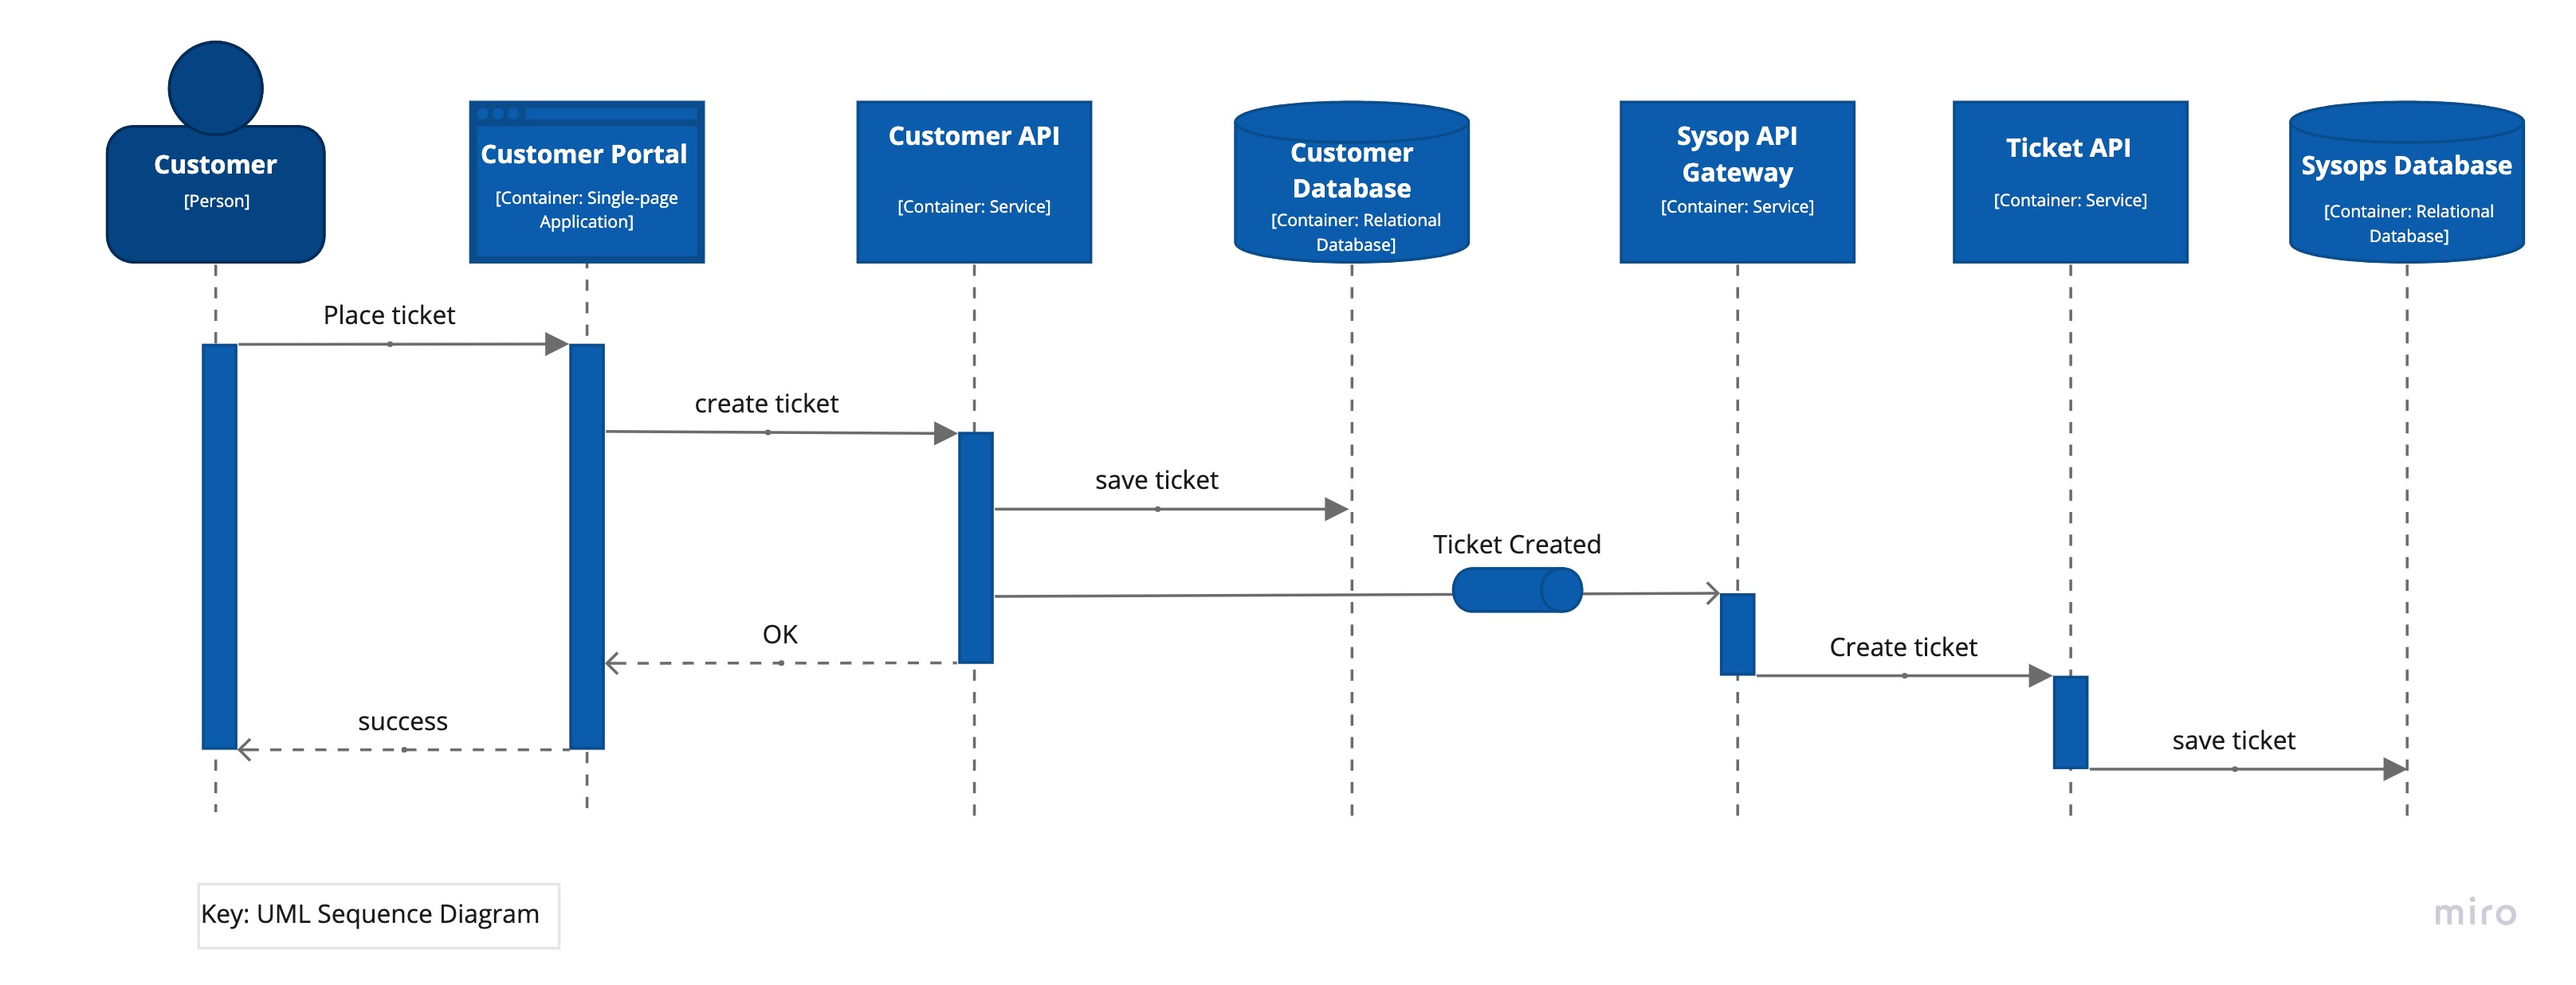
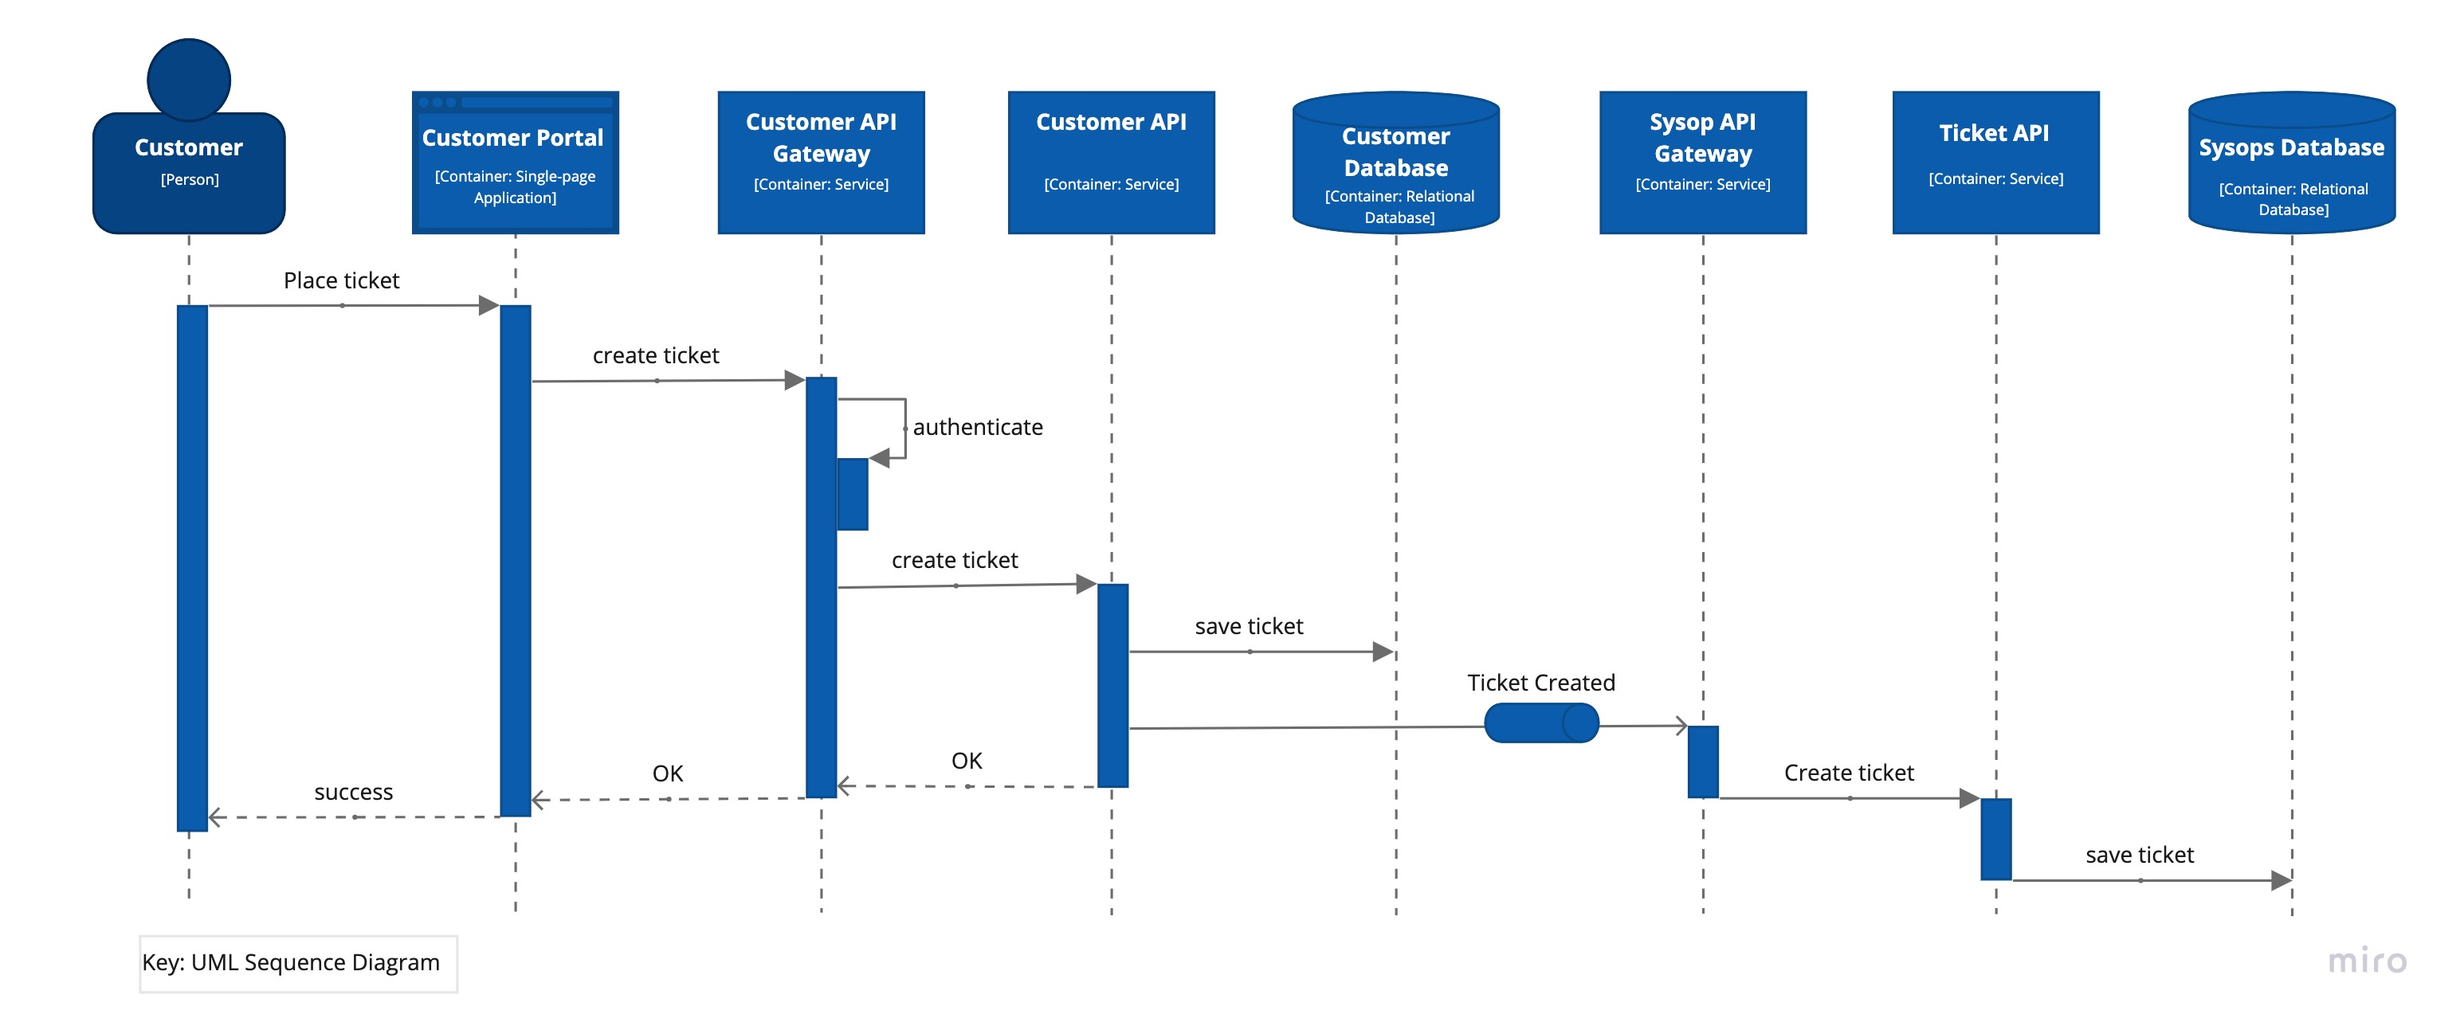
Add sequence diagram for customer registration

diff --git a/ADR/ADR-4-extract-billing-quanta.md b/ADR/ADR-4-extract-billing-quanta.md
@@ -17,7 +17,7 @@ The problem with isolation the billing sub-system is that billing data is needed
 First, let's outline what we include into the billing architectural quantum.
 
 Let's solve these issues one by one. Do customers need to see all their billing details to edit them, like card number, card expiration date, or CVC2? Of course no. It is enough to display the last 4 digits of the credit card number, for example, so that customer will have to remove an existing one and add a new one with all the details. 
-When a customer enters a credit card data in the Customer UI, we immediately pass it to the billing quantum and store only the last 4 digits of the credit card number in the customer quantum, leaving all the details secure in the billing quantum.
+When a customer enters a credit card data in the Customer UI, we immediately pass it to the billing quantum and store only the last 4 digits of the credit card number in the customer quantum, leaving all the details secure in the billing quantum. The customer does not have to wait until the credit card is processed by the billing system so we can pass it asynchronously through the message queue thus improve response time.
 
 Administrators will access the billing information via billing UI. As an additional security measure, billing quantum can be hidden behind a virtual network from the rest of the world, then administrators will have to use a VPN client to get access to it.
 

diff --git a/README.md b/README.md
@@ -209,6 +209,12 @@ The architectural style used here as the bases is Service-based architecture (se
 
 This section explains some key use cases to demonstrate how corresponding workflows pass through containers.
 
+#### UC-2: Customer registration
+The following sequence diagram highlights some key requests that the customer performs during registration in the system.
+One worth paying attention is registration of a credit card. In the customer database we store only some minimal credit card data to let the customer possibility identify which card do they have already registered. All the details of the credit card are encrypted and securely passed to the billing system (see [ADR-4](ADR/ADR-4-extract-billing-quanta.md)).
+
+![UC-2: Customer registration](images/customer-registration.jpg "Customer Registration")
+
 #### UC-3: Ticket submission
 The following diagram illustrates the process of a ticket registration by the customer.
 
